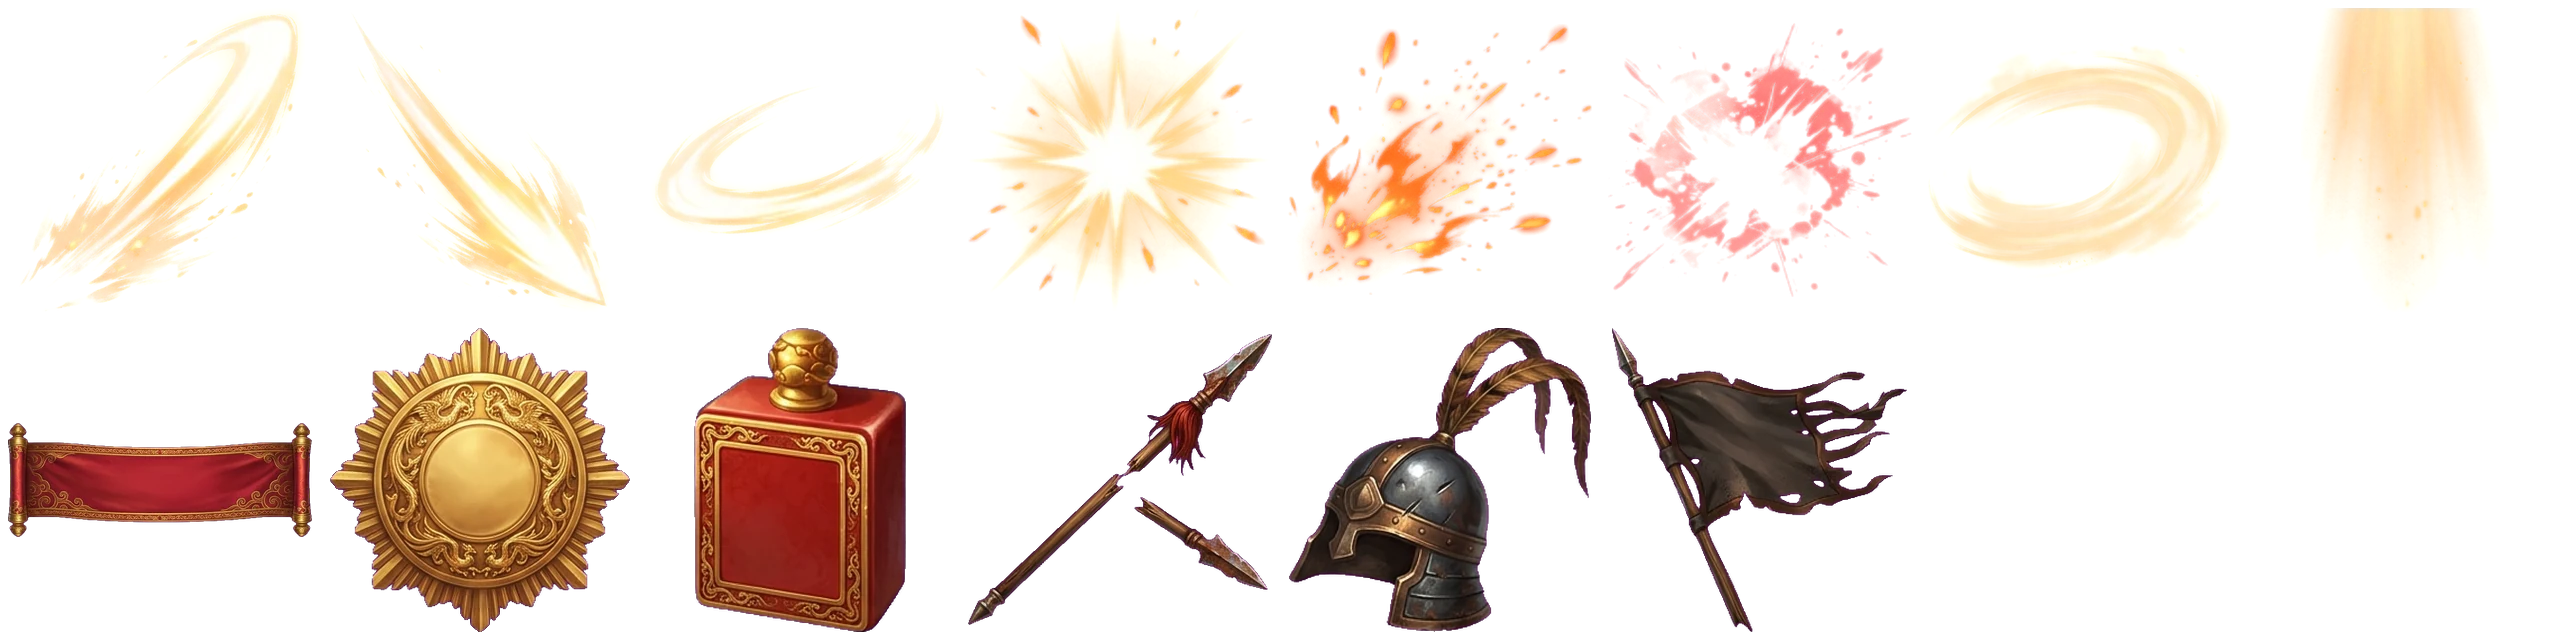
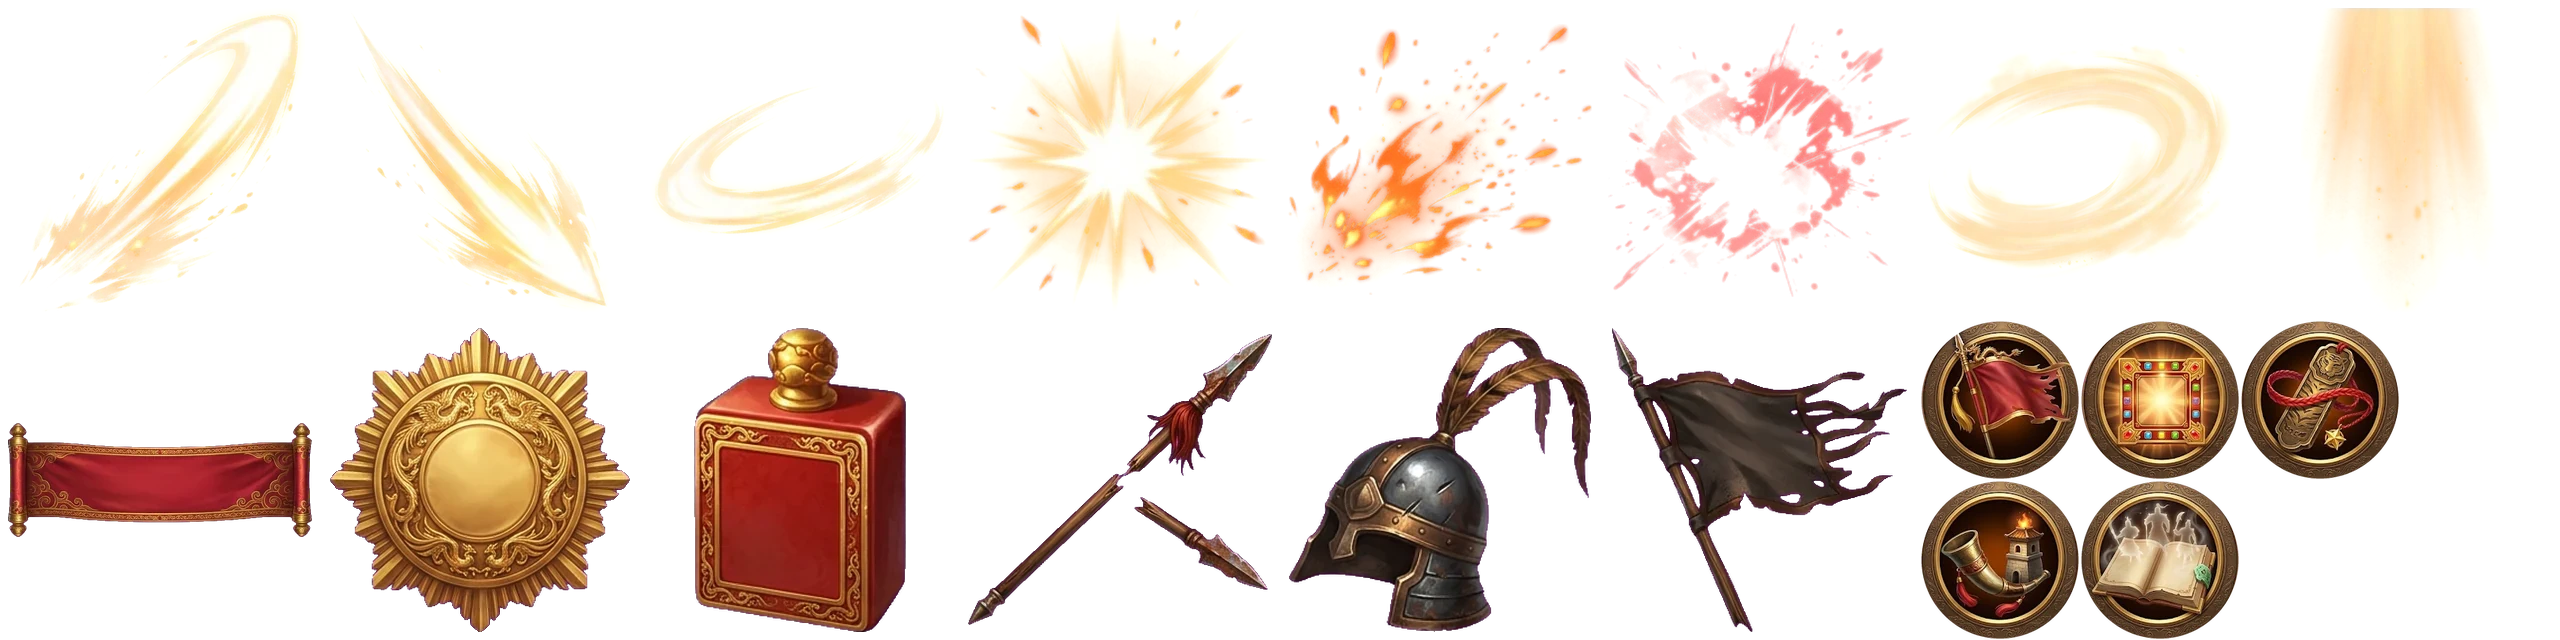
V275 play build
Claude-Session: https://claude.ai/code/session_01PuSXu7AoyMaVDfh5fsVkbo

Changed region(s): [[0.75, 0.5, 0.9375, 1.0]]

diff --git a/index.html b/index.html
@@ -11024,7 +11024,7 @@ function u185Hero(){var sh=document.querySelector('#modal:not([hidden]) #sheet')
      | admin_edit (the owner changed the save: the phone adopts it, then acks) | banned (sync stops).
    - Player name: asked once (S.pname), stored in the save and in profiles.display_name so the owner can find players.
    - Every call is wrapped: no network, CSP or server error can stop the game (house rule: load/draw code never throws). */
-var BUILD='V274';
+var BUILD='V275';
 (function(){
 var SB='https://vsgncllldrzyppdwsjbq.supabase.co',PK='sb_publishable_ldlnj7mtPajOvvBMy4l4vg_8_yWgvHC',CK='bn-cloud-v1';
 var C=null,busy=false,lastTry=0,asked=false;
@@ -15056,14 +15056,18 @@ var WQ269=1;
    above the nav), back chevron / tap outside / Esc close; tapping a row closes the window then runs the row's own action.
    Dim only, no blur (V250); transform/opacity pop. No new art, no new actions (the old `hub` action is re-routed). HB274=0 → old sheet. */
 var HB274=1;
+/* V275: the 5 dedicated Hoạt động medallions (user's Banana Pro sheet, 21:21) live in the empty cells 14–15 of art/ui/victory_fx.webp
+   (2560×640; 160 px icons at x/y below) — no new file. Other actions keep the qi_* medallions. */
+var HB4V={evs:[1920,320],wheel:[2080,320],season:[2240,320],patrol:[1920,480],book:[2080,480]};
 var HB4ART={evs:'qi_daily',wheel:'qi_event',season:'qi_vip',patrol:'qi_tower',book:'qi_form',arena:'qi_arena',tower:'qi_tower',boss:'nav_boss',shop:'qi_shop',vip:'qi_vip'};
 (function(){try{
  function host(){var x=document.getElementById('hb4w');if(!x){x=document.createElement('div');x.id='hb4w';document.body.appendChild(x)}return x}
  function close(){var x=document.getElementById('hb4w');if(x)x.innerHTML=''}
  function open(g){var h='';try{h=hubSheet(g)}catch(e){return false}
   var d=document.createElement('div');d.innerHTML=h;var t=d.querySelector('h3'),title=t?t.textContent:(HUBN[g]||'');if(t)t.remove();
-  [].forEach.call(d.querySelectorAll('.hub-t'),function(b){var a=b.getAttribute('data-a'),im=HB4ART[a],ic=b.querySelector('.hub-i');
-    if(ic&&im){ic.innerHTML='<img src="art/ui/'+im+'.webp" alt="">';ic.classList.add('hb4m')}else if(ic)ic.classList.add('hb4c')});
+  [].forEach.call(d.querySelectorAll('.hub-t'),function(b){var a=b.getAttribute('data-a'),im=HB4ART[a],ic=b.querySelector('.hub-i'),vp=HB4V[a];
+    if(ic&&vp){var k=58/160;ic.innerHTML='<i class="hb4v" style="background-size:'+(2560*k).toFixed(1)+'px auto;background-position:'+(-vp[0]*k).toFixed(1)+'px '+(-vp[1]*k).toFixed(1)+'px"></i>';ic.classList.add('hb4m')}
+    else if(ic&&im){ic.innerHTML='<img src="art/ui/'+im+'.webp" alt="">';ic.classList.add('hb4m')}else if(ic)ic.classList.add('hb4c')});
   host().innerHTML='<div class="hb4bg"></div><div class="hb4in" role="dialog" aria-modal="true" aria-label="'+title+'"><div class="hb4hd"><button type="button" class="hb4x" aria-label="Quay lại">‹</button><b>'+title+'</b></div><div class="hb4bd">'+d.innerHTML+'</div></div>';
   return true}
  var _A=A_;A_=function(a,v,w,el){if(a==='hub'&&HB274){if(open(v))return}return _A.apply(this,arguments)};
@@ -15089,6 +15093,7 @@ var HB4ART={evs:'qi_daily',wheel:'qi_event',season:'qi_vip',patrol:'qi_tower',bo
   H+'.hub-t:active{transform:scale(.98)}'+
   H+'.hub-i{flex:none;width:58px;height:58px;display:flex;align-items:center;justify-content:center}'+
   H+'.hub-i.hb4m img{width:58px;height:58px;object-fit:contain;filter:drop-shadow(0 3px 6px rgba(0,0,0,.6))}'+
+  H+'.hb4v{display:block;width:58px;height:58px;background-image:url(art/ui/victory_fx.webp?v=2);background-repeat:no-repeat;filter:drop-shadow(0 3px 6px rgba(0,0,0,.6))}'+
   H+'.hub-i.hb4c{border-radius:50%;background:radial-gradient(circle at 50% 35%,#4a3720,#1a120a);box-shadow:0 0 0 2px #b8893a,0 3px 6px rgba(0,0,0,.6)}'+H+'.hub-i.hb4c img,'+H+'.hub-i.hb4c svg{width:34px;height:34px}'+
   H+'.hub-tx{flex:1;min-width:0;display:flex;flex-direction:column;gap:3px}'+H+'.hub-tx b{font:700 17px/1.2 var(--ds-fb,"Be Vietnam Pro",system-ui,sans-serif);color:#fff2cf}'+
   H+'.hub-tx em{font:400 13.5px/1.25 var(--ds-fb,"Be Vietnam Pro",system-ui,sans-serif);font-style:normal;color:#c9b48a;white-space:nowrap;overflow:hidden;text-overflow:ellipsis}'+
